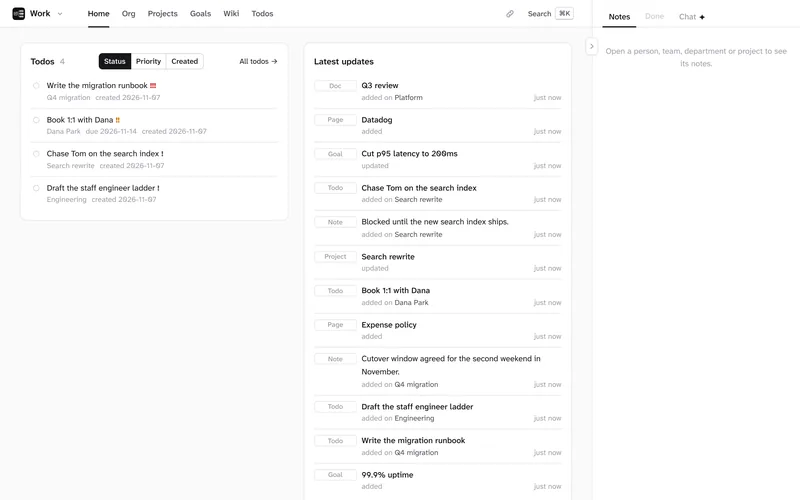
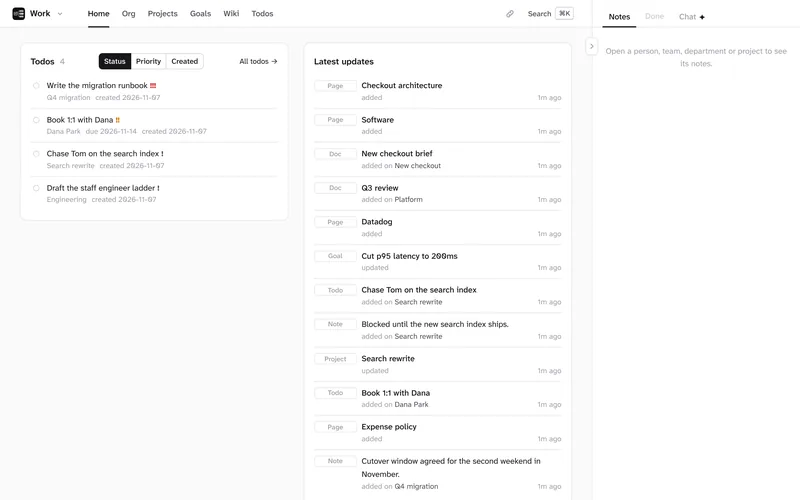
Landing: showcase sync briefs, spreadsheets and Excalidraw drawings
A "Built in, not bolted on" group under the use cases, with a screenshot
of each: a sync brief with its sources and discrepancies, a Software
spreadsheet with formulas, and a checkout architecture drawing. The demo
notebook gains all three (finish.py), and shots.js takes them.

Claude-Session: https://claude.ai/code/session_01XkKpG5AmtgfmojUHwDdDXk

diff --git a/public/index.html b/public/index.html
@@ -31,7 +31,7 @@
   <link rel="icon" href="/icons/icon-small.svg?v=dd78de96" type="image/svg+xml">
   <link rel="apple-touch-icon" href="/apple-touch-icon.png">
   <link rel="preload" href="/images/demo-poster.webp?v=455dd9f2" as="image" type="image/webp">
-  <link rel="stylesheet" href="/styles.css?v=2ac31d8c">
+  <link rel="stylesheet" href="/styles.css?v=7f837502">
 
   <script src="/main.js?v=2aa25f68" defer></script>
   <!-- Privacy-friendly analytics by Plausible. Its setup is in /analytics.js (the CSP allows no inline scripts). -->
@@ -201,6 +201,48 @@
             </picture></a>
           </article>
         </div>
+        <h2 id="builtin-title" class="cases-title">Built in, not bolted on</h2>
+        <p class="section-lede">In Notion or Obsidian these come from plugins you find and set up. In Remry they come with the app, and Claude writes them.</p>
+        <div class="cases">
+          <article class="case case-wide">
+            <h3>A brief that stays current</h3>
+            <blockquote><span class="you">You:</span> Make a Checkout brief from the PRD, the Linear project and the pricing sheet. Flag where they disagree.</blockquote>
+            <p>Claude reads each source and writes one view, saying where each point comes from and ending with the discrepancies. The brief keeps its sources and its prompt, so the next refresh pulls the same parts, and each source shows when it was last synced. With Pro, <strong>Sync now</strong> refreshes it from the app.</p>
+            <a class="zoom" href="/images/sync-brief-1600.png?v=f1b34afc"><span class="sr-only">Open full size: </span>
+            <picture>
+              <source media="(max-width: 640px)" type="image/webp" srcset="/images/sync-brief-m.webp?v=1b40ab95" width="780" height="1400">
+              <source type="image/webp" srcset="/images/sync-brief-800.webp?v=ce869e4c 800w, /images/sync-brief-1600.webp?v=265a836d 1600w" sizes="(min-width: 1160px) 1064px, 92vw">
+              <img src="/images/sync-brief-1600.png?v=f1b34afc" width="1600" height="1000" loading="lazy" decoding="async"
+                   alt="A sync doc on the New checkout project: its prompt, three synced sources (a Notion PRD, a Linear project and a pricing sheet), Sync now, and the brief ending in a list of discrepancies.">
+            </picture></a>
+          </article>
+
+          <article class="case">
+            <h3>Spreadsheets</h3>
+            <blockquote><span class="you">You:</span> Put our software in a sheet: owner, seats, annual cost and cost per seat.</blockquote>
+            <p>Any wiki page or doc can be a spreadsheet, with formulas and currency formats. Ask what you spend and Claude reads the totals back.</p>
+            <a class="zoom" href="/images/sheet-1600.png?v=3f13220c"><span class="sr-only">Open full size: </span>
+            <picture>
+              <source media="(max-width: 640px)" type="image/webp" srcset="/images/sheet-m.webp?v=787562d8" width="780" height="940">
+              <source type="image/webp" srcset="/images/sheet-800.webp?v=184c43c5 800w, /images/sheet-1600.webp?v=d3d51ea3 1600w" sizes="(min-width: 960px) 560px, 92vw">
+              <img src="/images/sheet-1600.png?v=3f13220c" width="1600" height="1000" loading="lazy" decoding="async"
+                   alt="A Software spreadsheet: tools, owners, seats, annual cost and a per-seat formula, with a total row.">
+            </picture></a>
+          </article>
+
+          <article class="case">
+            <h3>Drawings, with Excalidraw</h3>
+            <blockquote><span class="you">You:</span> Draw the checkout architecture.</blockquote>
+            <p>Claude lays out the boxes and arrows. Open it to move things around in Excalidraw, full screen, or bring in an <code>.excalidraw</code> file or link. 3 free per notebook, unlimited with Pro.</p>
+            <a class="zoom" href="/images/drawing-1600.png?v=01fe238f"><span class="sr-only">Open full size: </span>
+            <picture>
+              <source media="(max-width: 640px)" type="image/webp" srcset="/images/drawing-m.webp?v=bf23373c" width="780" height="1120">
+              <source type="image/webp" srcset="/images/drawing-800.webp?v=8f02b98a 800w, /images/drawing-1600.webp?v=e4744413 1600w" sizes="(min-width: 960px) 560px, 92vw">
+              <img src="/images/drawing-1600.png?v=01fe238f" width="1600" height="1000" loading="lazy" decoding="async"
+                   alt="A hand-drawn Excalidraw diagram of the checkout architecture: web and mobile, API gateway, checkout service, payments, fraud scoring, orders DB and Stripe.">
+            </picture></a>
+          </article>
+        </div>
       </div>
     </section>
 
@@ -210,11 +252,11 @@
         <h2 id="app-title">The app comes set up</h2>
         <p class="section-lede">In Notion or Obsidian you start on a blank page and build the templates, databases and plugins yourself. Remry has people, teams, projects, goals and docs built in, already linked.</p>
         <figure class="app-shot">
-          <a class="zoom" href="/images/home-1600.png?v=c53dcb95"><span class="sr-only">Open full size: </span>
+          <a class="zoom" href="/images/home-1600.png?v=391326c5"><span class="sr-only">Open full size: </span>
           <picture>
-            <source media="(max-width: 640px)" type="image/webp" srcset="/images/home-m.webp?v=0fd1253f" width="780" height="1400">
-            <source type="image/webp" srcset="/images/home-800.webp?v=ba4740de 800w, /images/home-1600.webp?v=e03e3efa 1600w" sizes="(min-width: 1160px) 1112px, 92vw">
-            <img src="/images/home-1600.png?v=c53dcb95" width="1600" height="1000" loading="lazy" decoding="async"
+            <source media="(max-width: 640px)" type="image/webp" srcset="/images/home-m.webp?v=33e4b7b5" width="780" height="1400">
+            <source type="image/webp" srcset="/images/home-800.webp?v=e30df859 800w, /images/home-1600.webp?v=9960279d 1600w" sizes="(min-width: 1160px) 1112px, 92vw">
+            <img src="/images/home-1600.png?v=391326c5" width="1600" height="1000" loading="lazy" decoding="async"
                  alt="The home dashboard: open todos and a feed of the latest updates.">
           </picture></a>
         </figure>
@@ -240,16 +282,8 @@
             <p>Press ⌘K and type a name, or <code>/search</code> to search every word.</p>
           </li>
           <li>
-            <h3>Spreadsheets</h3>
-            <p>For many records of one shape, with formulas and currency formats. Any doc or wiki page can be one.</p>
-          </li>
-          <li>
-            <h3>Excalidraw drawings</h3>
-            <p>Ask Claude for a diagram and it lays out the shapes and arrows. Open it to edit full screen.</p>
-          </li>
-          <li>
-            <h3>Briefs that stay current</h3>
-            <p>One write-up from the PRD, the Linear project and the pricing sheet, with where they disagree. Each source shows when it was last synced.</p>
+            <h3>Your Claude, in the app <span class="pro-tag">Pro</span></h3>
+            <p>Chat about the page you’re on, or <code>/ask</code> the whole notebook and get answers with links.</p>
           </li>
         </ul>
       </div>

diff --git a/tools/demo/shots.js b/tools/demo/shots.js
@@ -15,6 +15,11 @@ const scrollTo = (sel, block = 'start') => async (p) => {
   await p.evaluate(([s, b]) => document.querySelector(s)?.scrollIntoView({ block: b }), [sel, block]);
   await p.waitForTimeout(400);
 };
+const scrollToBanner = async (p) => {
+  await p.getByText('Sync now').first().evaluate((e) => e.closest('.card, section, article, div')?.parentElement?.scrollIntoView({ block: 'start' }));
+  await p.evaluate(() => window.scrollBy(0, -60));
+  await p.waitForTimeout(400);
+};
 const openPanel = async (p) => { await p.locator('.drawer-toggle.right-toggle').click(); await p.waitForTimeout(700); };
 
 const SHOTS = [
@@ -24,6 +29,11 @@ const SHOTS = [
   { name: 'doc-charts', path: `/app/groups/${ids.Platform}?doc=${ids['Q3 review']}`, phone: scrollTo('canvas', 'center'), h: 700 },
   { name: 'home', path: '/app', h: 700 },
   { name: 'wiki-page', path: `/app/wiki/${ids.Datadog}`, h: 640 },
+  // The Sync banner (prompt, sources, Sync now) at the top, down to the Discrepancies on desktop.
+  { name: 'sync-brief', path: `/app/projects/${ids['New checkout']}?doc=${ids['New checkout brief']}`,
+    desktop: scrollToBanner, h: 700 },
+  { name: 'sheet', path: `/app/wiki/${ids.Software}`, h: 470 },
+  { name: 'drawing', path: `/app/wiki/${ids['Checkout architecture']}`, h: 560 },
 ];
 
 (async () => {
@@ -36,9 +46,10 @@ const SHOTS = [
       });
       const p = await ctx.newPage();
       await p.goto(BASE + s.path, { waitUntil: 'networkidle' });
-      await p.waitForTimeout(900);
+      await p.waitForTimeout(1500);
       if (s.both) await s.both(p);
       if (phone && s.phone) await s.phone(p);
+      if (!phone && s.desktop) await s.desktop(p);
       await p.waitForTimeout(500);
       await p.screenshot({ path: path.join(OUT, `${s.name}${phone ? '-m' : ''}.png`) });
       await ctx.close();

diff --git a/public/styles.css b/public/styles.css
@@ -198,7 +198,8 @@ code { font-family: var(--mono); font-size: 0.88em; overflow-wrap: anywhere; }
 
 /* Use cases */
 .cases { display: grid; gap: 24px; margin-top: 40px; }
-@media (min-width: 960px) { .cases { grid-template-columns: 1fr 1fr; } }
+@media (min-width: 960px) { .cases { grid-template-columns: 1fr 1fr; } .case-wide { grid-column: 1 / -1; } }
+.cases-title { margin-top: 72px; }
 .case {
   display: flex; flex-direction: column;
   background: var(--surface); border: 1px solid var(--border); border-radius: var(--radius);
@@ -323,6 +324,8 @@ code { font-family: var(--mono); font-size: 0.88em; overflow-wrap: anywhere; }
 }
 .features h3 { font-size: 1.05rem; margin-bottom: 4px; }
 .features p { color: var(--muted); margin: 0; }
+.pro-tag { font-size: .7rem; font-weight: 600; letter-spacing: .04em; vertical-align: 2px; margin-left: 4px;
+  padding: 2px 7px; border-radius: 999px; border: 1px solid var(--border); color: var(--muted); }
 
 .hero-note { color: var(--night-text); font-weight: 600; margin: 0 0 4px; }
 

diff --git a/public/404.html b/public/404.html
@@ -6,7 +6,7 @@
   <title>Not found · Remry</title>
   <meta name="robots" content="noindex">
   <link rel="icon" href="/favicon.ico" sizes="any">
-  <link rel="stylesheet" href="/styles.css?v=2ac31d8c">
+  <link rel="stylesheet" href="/styles.css?v=7f837502">
 </head>
 <body>
   <main class="hero notfound">

diff --git a/tools/demo/finish.py b/tools/demo/finish.py
@@ -42,5 +42,51 @@ md = open(os.path.join(HERE, "q3.md")).read().replace("{{migration}}", f"/app/pr
     .replace("{{datadog}}", f"/app/wiki/{dd}")
 call("doc.update", id=doc, content=md)
 
+
+# 7. A sync doc: one brief from three sources, with where they disagree.
+checkout = ids["New checkout"]
+brief = call("doc.add", entityType="PROJECT", entityId=checkout, title="New checkout brief")["id"]
+ids["New checkout brief"] = brief
+call("doc.update", id=brief, content=open(os.path.join(HERE, "brief.md")).read(),
+     prompt="PRD: scope and launch plan. Linear: status, dates and open issues. Pricing sheet: the tiers only. "
+            "Flag any disagreement on dates or scope.")
+for url, title in [("https://www.notion.so/acme/New-checkout-PRD-6f1c2a9e4b7d4e0f9a3b5c8d7e6f1a2b", "Notion: New checkout PRD"),
+                   ("https://linear.app/acme/project/new-checkout-3f9a1c2e", "Linear: New checkout"),
+                   ("https://docs.google.com/spreadsheets/d/1aB2cD3eF4gH5iJ6kL7mN8oP9qR0sT/edit", "Sheets: Checkout pricing")]:
+    call("link.add", entityType="DOC", entityId=brief, url=url, title=title, synced=True)
+
+# 8. A spreadsheet page: the team's software, with formulas.
+money = {"type": "currency", "symbol": "$", "decimals": 0}
+sheet = {"columns": [{"title": "Tool"}, {"title": "Owner"}, {"title": "Seats"},
+                     {"title": "Annual cost", "format": money}, {"title": "Per seat", "format": money}, {"title": "Renews"}],
+         "data": [["Datadog", "Platform", "40", "40000", "=D1/C1", "Mar 2027"],
+                  ["GitHub", "Engineering", "45", "18900", "=D2/C2", "Jan 2027"],
+                  ["Linear", "Engineering", "45", "6480", "=D3/C3", "Aug 2027"],
+                  ["PagerDuty", "Platform", "12", "5880", "=D4/C4", "Jun 2027"],
+                  ["Sentry", "Payments", "20", "6240", "=D5/C5", "Nov 2027"],
+                  ["Total", "", "=SUM(C1:C5)", "=SUM(D1:D5)", "=D6/C6", ""]]}
+ids["Software"] = call("page.create", title="Software", bodyType="sheet", content=json.dumps(sheet))["id"]
+
+# 9. A drawing: the checkout architecture, as Claude writes it (a skeleton the app lays out).
+blue, green, grey = "#a5d8ff", "#b2f2bb", "#e9ecef"
+# Placed in a compact grid (x, y) rather than one long row, so it reads on a phone too.
+box = lambda i, t, c, x, y: {"type": "rectangle", "id": i, "label": {"text": t}, "x": x, "y": y,
+                             "backgroundColor": c, "fillStyle": "solid"}
+drawing = {"skeleton": [
+    box("app", "Web and mobile", grey, 0, 0), box("gw", "API gateway", green, 230, 0),
+    box("co", "Checkout service", blue, 230, 140),
+    box("pay", "Payments API v2", blue, 0, 290), box("fraud", "Fraud scoring", blue, 230, 290),
+    box("db", "Orders DB", green, 460, 290),
+    {"type": "ellipse", "id": "stripe", "label": {"text": "Stripe"}, "x": 10, "y": 430,
+     "backgroundColor": grey, "fillStyle": "solid"},
+    {"type": "arrow", "start": {"id": "app"}, "end": {"id": "gw"}},
+    {"type": "arrow", "start": {"id": "gw"}, "end": {"id": "co"}},
+    {"type": "arrow", "start": {"id": "co"}, "end": {"id": "pay"}, "label": {"text": "charge"}},
+    {"type": "arrow", "start": {"id": "co"}, "end": {"id": "fraud"}, "label": {"text": "score"}},
+    {"type": "arrow", "start": {"id": "co"}, "end": {"id": "db"}},
+    {"type": "arrow", "start": {"id": "pay"}, "end": {"id": "stripe"}}]}
+ids["Checkout architecture"] = call("page.create", title="Checkout architecture", bodyType="drawing",
+                                    content=json.dumps(drawing))["id"]
+
 json.dump(ids, open(os.path.join(HERE, "ids.json"), "w"), indent=1)
 print("finished", len(ids))

diff --git a/tools/demo/images.py b/tools/demo/images.py
@@ -8,7 +8,7 @@ if os.path.exists(f"{out}/poster.png"):
     Image.open(f"{out}/poster.png").convert("RGB").save(f"{dest}/demo-poster.webp", "WEBP", quality=85)
     Image.open(f"{out}/poster.png").convert("RGB").resize((960, 640), Image.LANCZOS).save(f"{dest}/demo-poster.png", optimize=True)
     Image.open(f"{out}/poster-m.png").convert("RGB").save(f"{dest}/demo-poster-m.webp", "WEBP", quality=85)
-for n in ["org-map", "person", "goal", "doc-charts", "home", "wiki-page"]:
+for n in ["org-map", "person", "goal", "doc-charts", "home", "wiki-page", "sync-brief", "sheet", "drawing"]:
     im = Image.open(f"{out}/{n}.png").convert("RGB")
     for w in (800, 1600):
         r = im.resize((w, round(im.height * w / im.width)), Image.LANCZOS)

diff --git a/tools/demo/brief.md b/tools/demo/brief.md
@@ -1,0 +1,23 @@
+# New checkout brief
+
+## Scope
+
+One-page checkout for web and mobile, with Apple Pay at launch and saved cards for signed-in buyers (PRD). Guest checkout stays as it is (PRD; Linear agrees).
+
+## Timeline
+
+Launch is **12 Nov** (PRD). Linear has the last milestone due **30 Oct**, and 14 of 22 issues are done. The payments API v2 cut-over has to land first (Linear).
+
+## Pricing
+
+Three tiers, Starter, Growth and Scale, with card fees passed through at cost (pricing sheet; the PRD agrees).
+
+## Open questions
+
+- Who owns fraud review after launch (PRD).
+- Whether saved cards need a second consent screen in the EU (Linear).
+
+## Discrepancies
+
+- **Launch date.** PRD (edited 3 Nov): 12 Nov. Linear (updated 5 Nov): last milestone 30 Oct. The project's target date: 1 Dec.
+- **Apple Pay.** PRD: at launch. Linear: in the follow-up milestone.
